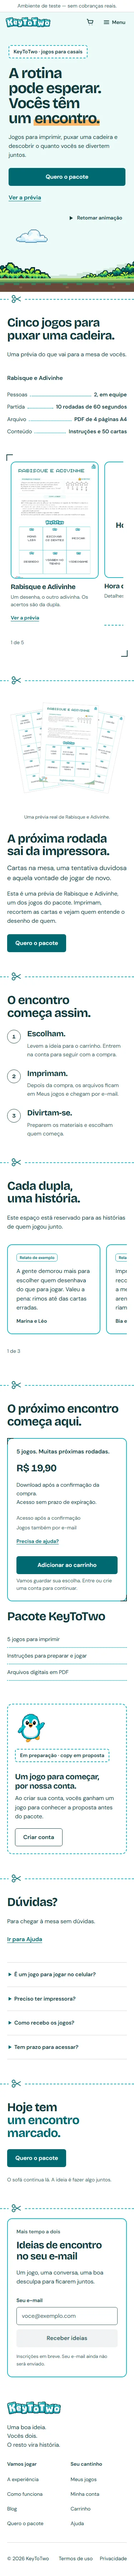
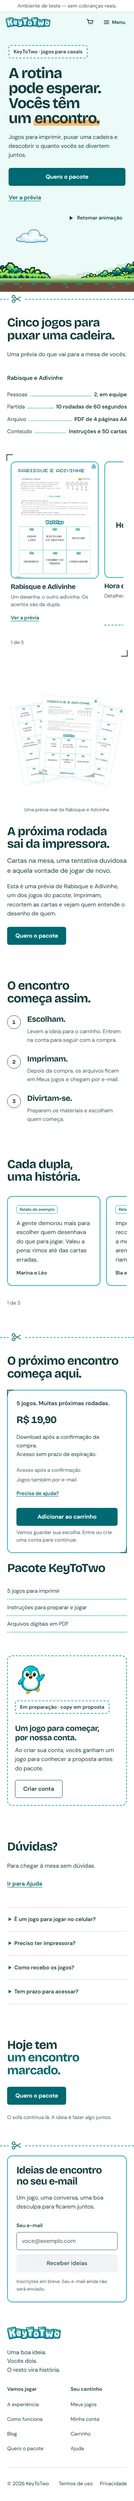
fix(design): ajustes da revisão da fatia 4
(a) Relatos sem a frase "Este espaço está reservado…", que desmentia os
exemplos no stage test e ficaria falsa em live. (b) Tesoura só em três cortes:
hero → folha dos jogos, antes da oferta e rodapé público; as demais seções
separam-se por espaço; regra registrada no DESIGN.md (The Three Cuts Rule) e
no sidecar. (c) Regra de catálogo nos dados: chamada, conteúdo e entrega da
oferta em src/content/products.ts; código, resumo, prévia aprovada e fatos de
cada carta em src/content/games.ts (só copy já existente); PackageGames,
OfferSection e GameCover servem a qualquer produto, sem J00{index} nem
index === 0. (d) Regressão de Meus jogos resolvida pela capa 16:10 da fatia 5:
card de 535 px em 1280 (antes 536) e último download em 2921 px no celular
(antes 2918).

Verificado: lint e typecheck exit 0; e2e public, d3, a2, d2, smoke e d1 contra
o build: 89 passed, 1 skipped por stage; home no 5180 com 3 linhas de recorte,
5 cartas (1 prévia real, 2 tipográficas, 2 em breve), 0 erros. Capturas da
home refeitas em design-review/fatias/4-secoes-home.

diff --git a/src/content/games.ts b/src/content/games.ts
@@ -1,21 +1,41 @@
 import { pending } from '../lib/pending'
 
 // P001 composition; only J001 has documented mechanics. Do not infer rules from names.
-export const games = [
-  {
-    id: 'rabisque-e-adivinhe', name: 'Rabisque e Adivinhe', confirmed: true,
-    description: 'Um desenha, o outro adivinha. Vocês alternam os papéis de Artista e Adivinhador e somam os acertos da dupla.',
-    pending: pending('prévia pública autorizada, testes de impressão e playtest.'),
-  },
-  { id: 'hora-dos-artistas', name: 'Hora dos Artistas', confirmed: true, description: 'Inclusão confirmada no pacote.', pending: pending('ficha, regras, materiais e prévia do jogo.') },
-  { id: 'boardgame', name: 'Boardgame', confirmed: true, description: 'Inclusão confirmada com este nome provisório.', pending: pending('nome final, ficha, regras, materiais e prévia do jogo.') },
-  { id: 'jogo-4', name: 'Jogo a definir', confirmed: false, description: 'Quarta vaga do pacote.', pending: pending('definição do jogo e de seus materiais.') },
-  { id: 'jogo-5', name: 'Jogo a definir', confirmed: false, description: 'Quinta vaga do pacote.', pending: pending('definição do jogo e de seus materiais.') },
-] as const
+// Regra de catálogo (DESIGN.md): tudo o que a carta mostra vem daqui (código, nome, resumo,
+// prévia aprovada, fatos). Sem prévia aprovada a capa é tipográfica; sem confirmação, "em breve".
+export type GamePreview = { src: string; alt: string; href: string; label: string }
+export type Game = {
+  id: string
+  code: string
+  name: string
+  confirmed: boolean
+  description: string
+  pending: string
+  summary: string
+  preview?: GamePreview
+  facts?: ReadonlyArray<{ label: string; value: string }>
+}
 
 // Verified J001 facts, never extrapolated to the other four games.
+const j001Facts = [{ label: 'Pessoas', value: '2, em equipe' }, { label: 'Partida', value: '10 rodadas de 60 segundos' }, { label: 'Arquivo', value: 'PDF de 4 páginas A4' }, { label: 'Conteúdo', value: 'Instruções e 50 cartas' }] as const
+
+export const games: readonly Game[] = [
+  {
+    id: 'rabisque-e-adivinhe', code: 'J001', name: 'Rabisque e Adivinhe', confirmed: true,
+    description: 'Um desenha, o outro adivinha. Vocês alternam os papéis de Artista e Adivinhador e somam os acertos da dupla.',
+    pending: pending('prévia pública autorizada, testes de impressão e playtest.'),
+    summary: 'Um desenha, o outro adivinha. Os acertos são da dupla.',
+    preview: { src: '/media/experience/j001-page-1-720.webp', alt: 'Prévia real de Rabisque e Adivinhe.', href: '/#experiencia', label: 'Ver a prévia' },
+    facts: j001Facts,
+  },
+  { id: 'hora-dos-artistas', code: 'J002', name: 'Hora dos Artistas', confirmed: true, description: 'Inclusão confirmada no pacote.', pending: pending('ficha, regras, materiais e prévia do jogo.'), summary: 'Detalhes e prévia em breve.' },
+  { id: 'boardgame', code: 'J003', name: 'Boardgame', confirmed: true, description: 'Inclusão confirmada com este nome provisório.', pending: pending('nome final, ficha, regras, materiais e prévia do jogo.'), summary: 'Detalhes e prévia em breve.' },
+  { id: 'jogo-4', code: 'J004', name: 'Jogo a definir', confirmed: false, description: 'Quarta vaga do pacote.', pending: pending('definição do jogo e de seus materiais.'), summary: 'Estamos preparando este jogo para o pacote.' },
+  { id: 'jogo-5', code: 'J005', name: 'Jogo a definir', confirmed: false, description: 'Quinta vaga do pacote.', pending: pending('definição do jogo e de seus materiais.'), summary: 'Estamos preparando este jogo para o pacote.' },
+]
+
 export const j001 = {
-  facts: [{ label: 'Pessoas', value: '2, em equipe' }, { label: 'Partida', value: '10 rodadas de 60 segundos' }, { label: 'Arquivo', value: 'PDF de 4 páginas A4' }, { label: 'Conteúdo', value: 'Instruções e 50 cartas' }],
+  facts: j001Facts,
   materials: 'Impressão, tesoura, uma folha grande para desenhar, uma caneta por pessoa e temporizador.',
   preparation: 'Imprimam e recortem as cartas. Coloquem-nas viradas para baixo e escolham quem começa desenhando.',
   rules: 'O Artista desenha a palavra ou frase da carta sem usar letras ou números. A dupla tenta acertar o máximo de cartas em 60 segundos e troca de papéis a cada rodada. Ao final das 10 rodadas, soma os pontos.',

diff --git a/src/components/sections/PackageGames.tsx b/src/components/sections/PackageGames.tsx
@@ -1,21 +1,23 @@
-import { games, j001 } from '../../content/games'
+import { products } from '../../content/products'
 import { GameCover } from '../account/GameCover'
 import { SnapCarousel } from '../ui/SnapCarousel'
-import '../../carousels.css'
 import { CutLine } from '../ui/CutLine'
+import '../../carousels.css'
 
-// Folha de cartas (DESIGN.md › Folha): os jogos do pacote como cartas para recortar. Os cinco
+// Folha de cartas (DESIGN.md › Folha): os jogos do produto como cartas para recortar. Os cinco
 // ficam visíveis no desktop; abaixo de 768 px a mesma trilha vira carrossel por snap (P2-2).
-// A ordem é editorial, não uma sequência: sem numeração (P2-1).
+// A ordem é editorial, não uma sequência: sem numeração (P2-1). Tudo vem dos dados do produto.
 export function PackageGames() {
+  const product = products[0]
+  const featured = product.games.find(game => game.facts)
   return <section className="page-section package-games" aria-labelledby="package-games-title"><CutLine /><div className="content-width">
     <div className="folha-topo">
       <div className="section-heading"><h2 id="package-games-title">Cinco jogos para puxar uma cadeira.</h2><p>Uma prévia do que vai para a mesa de vocês.</p></div>
-      <div className="folha-ficha"><p className="ficha-titulo">{games[0].name}</p><dl className="ficha">{j001.facts.map(fact => <div key={fact.label}><dt>{fact.label}</dt><dd>{fact.value}</dd></div>)}</dl></div>
+      {featured?.facts && <div className="folha-ficha"><p className="ficha-titulo">{featured.name}</p><dl className="ficha">{featured.facts.map(fact => <div key={fact.label}><dt>{fact.label}</dt><dd>{fact.value}</dd></div>)}</dl></div>}
     </div>
-    <SnapCarousel label="Jogos do pacote" className="games-carousel folha crop-marks">{games.map((game, index) => <figure className="package-game" key={game.id} aria-label={game.confirmed ? game.name : 'Jogo em preparação'}>
-      <GameCover code={`J00${index + 1}`} name={game.confirmed ? game.name : 'Em breve'} seal={game.confirmed ? 'No pacote' : undefined} soon={!game.confirmed} />
-      <figcaption className="package-game-copy">{game.confirmed && <h3>{game.name}</h3>}<p>{index === 0 ? 'Um desenha, o outro adivinha. Os acertos são da dupla.' : game.confirmed ? 'Detalhes e prévia em breve.' : 'Estamos preparando este jogo para o pacote.'}</p>{index === 0 && <a className="inline-link" href="/#experiencia">Ver a prévia</a>}</figcaption>
+    <SnapCarousel label="Jogos do pacote" className="games-carousel folha crop-marks">{product.games.map(game => <figure className="package-game" key={game.id} aria-label={game.confirmed ? game.name : 'Jogo em preparação'}>
+      <GameCover code={game.code} name={game.confirmed ? game.name : 'Em breve'} seal={game.confirmed ? 'No pacote' : undefined} soon={!game.confirmed} />
+      <figcaption className="package-game-copy">{game.confirmed && <h3>{game.name}</h3>}<p>{game.summary}</p>{game.preview && <a className="inline-link" href={game.preview.href}>{game.preview.label}</a>}</figcaption>
     </figure>)}</SnapCarousel>
   </div></section>
 }

diff --git a/src/components/sections/ExperienceSections.tsx b/src/components/sections/ExperienceSections.tsx
@@ -2,11 +2,10 @@ import { experience } from '../../content/experience'
 import { siteConfig } from '../../lib/seo'
 import { ProductPreview } from './ProductPreview'
 import { SnapCarousel } from '../ui/SnapCarousel'
-import { CutLine } from '../ui/CutLine'
 
 // Prévia real do J001 sobre o Papel (direção B): nada de fundo em Tinta nem arco de Marca-texto.
 export function ProductExperience() {
-  return <section className="page-section experience-section" aria-labelledby="experiencia"><CutLine /><div className="content-width experience-layout">
+  return <section className="page-section experience-section" aria-labelledby="experiencia"><div className="content-width experience-layout">
     <ProductPreview />
     <div className="experience-copy"><h2 id="experiencia" tabIndex={-1}>A próxima rodada sai da impressora.</h2><p className="lead">Cartas na mesa, uma tentativa duvidosa e aquela vontade de jogar de novo.</p><p>Esta é uma prévia de Rabisque e Adivinhe, um dos jogos do pacote. Imprimam, recortem as cartas e vejam quem entende o desenho de quem.</p><a className="button button-primary" href="/#comprar">Quero o pacote</a></div>
   </div></section>
@@ -17,8 +16,8 @@ export function Testimonials() {
   const social = experience.social
   const visible = siteConfig.stage === 'test' ? social.testimonials : social.testimonials.filter(item => !item.placeholder)
   if (!visible.length) return null
-  return <section className="page-section social-section" aria-labelledby="social-title"><CutLine /><div className="content-width">
-    <div className="section-heading"><h2 id="social-title">{social.heading}</h2><p>{social.description}</p></div>
+  return <section className="page-section social-section" aria-labelledby="social-title"><div className="content-width">
+    <div className="section-heading"><h2 id="social-title">{social.heading}</h2></div>
     <SnapCarousel label="Relatos dos casais" className="social-carousel">{visible.map(item => <figure key={item.id} className="social-card" data-placeholder={item.placeholder ? 'true' : undefined}>
       {item.placeholder && <span className="tag-solid">{social.placeholderLabel}</span>}
       <blockquote>{item.quote}</blockquote><figcaption>{item.author}</figcaption>

diff --git a/src/components/sections/OfferSection.tsx b/src/components/sections/OfferSection.tsx
@@ -1,5 +1,5 @@
 import { Link } from 'react-router'
-import { products, packageContents, type Product } from '../../content/products'
+import { products, type Product } from '../../content/products'
 import { experience } from '../../content/experience'
 import { siteConfig } from '../../lib/seo'
 import { useShop } from '../../lib/shop-context'
@@ -22,10 +22,10 @@ function ProductOffer({ product }: { product: Product }) {
   const { catalog } = useShop()
   const price = siteConfig.stage === 'preview' ? null : catalog.data?.products.find(item => item.code === product.code)?.price
   return <article className="offer-layout" aria-labelledby={`product-${product.code}`} data-product-code={product.code}>
-    <div className="offer-invitation"><h3 className="product-title" id={`product-${product.code}`}>{product.title}</h3><ul className="package-contents">{packageContents.map(item => <li key={item}>{item}</li>)}</ul></div>
-    <div className="offer-summary crop-marks"><h4>5 jogos. Muitas próximas rodadas.</h4>
+    <div className="offer-invitation"><h3 className="product-title" id={`product-${product.code}`}>{product.title}</h3><ul className="package-contents">{product.contents.map(item => <li key={item}>{item}</li>)}</ul></div>
+    <div className="offer-summary crop-marks"><h4>{product.tagline}</h4>
       <p className="offer-price" data-state={price ? undefined : 'pending'}>{price ? money(price.unit_amount, price.currency) : siteConfig.stage === 'preview' ? 'Preço em breve' : catalog.loading ? 'Consultando preço…' : 'Não conseguimos carregar o preço.'}</p>
-      <p className="offer-delivery">Download após a confirmação da compra.<br />Acesso sem prazo de expiração.</p>
+      <p className="offer-delivery">{product.delivery.map((line, index) => <span key={line}>{index > 0 && <br />}{line}</span>)}</p>
       <TrustLine />
       {siteConfig.showCartAccess ? <ProductPurchaseAction code={product.code} /> : <p className="offer-coming">Estamos preparando este encontro. Compra disponível em breve.</p>}
     </div>

diff --git a/src/components/account/GameCover.tsx b/src/components/account/GameCover.tsx
@@ -1,17 +1,14 @@
 import './game-cover.css'
+import { games } from '../../content/games'
 import { siteConfig } from '../../lib/seo'
 
-// Capa de jogo (DESIGN.md › Carta de jogo). Três faces: prévia real (só o J001, único jogo com
-// prévia aprovada), tipográfica (nome do jogo sobre a carta, padrão de qualquer jogo sem prévia)
-// e "em breve" (jogo ainda indefinido). Nunca arte do Kito nem capa fictícia (P0-2).
-const previews: Record<string, { src: string; alt: string }> = {
-  J001: { src: '/media/experience/j001-page-1-720.webp', alt: 'Prévia real de Rabisque e Adivinhe.' },
-}
-
+// Capa de jogo (DESIGN.md › Carta de jogo). Três faces, decididas pelos dados do jogo: prévia real
+// (só jogos com prévia aprovada em src/content/games.ts), tipográfica (nome sobre a carta, padrão de
+// qualquer jogo sem prévia) e "em breve" (jogo ainda indefinido). Nunca arte do Kito nem capa fictícia (P0-2).
 export function GameCover({ code, name, seal, soon = false }: { code: string; name: string; seal?: string; soon?: boolean }) {
   // The local stage seed exposes TESTE-J01…05 for these same five games.
   const coverCode = siteConfig.stage === 'test' ? code.replace(/^TESTE-J0([1-5])$/, 'J00$1') : code
-  const preview = previews[coverCode]
+  const preview = games.find(game => game.code === coverCode)?.preview
   if (preview) return <div className="game-cover game-cover-preview"><img src={preview.src} alt={preview.alt} width="509" height="720" loading="lazy" decoding="async" /></div>
   if (soon) return <div className="game-cover game-cover-soon" aria-hidden="true"><span className="game-cover-name">{name}</span></div>
   return <div className="game-cover game-cover-type" aria-hidden="true">{seal && <span className="tag-solid">{seal}</span>}<span className="game-cover-name">{name}</span></div>

diff --git a/src/content/products.ts b/src/content/products.ts
@@ -1,22 +1,26 @@
-import { games } from './games'
+import { games, type Game } from './games'
 import { offer } from './offer'
 
 export type Product = {
   code: string
   kind: 'bundle' | 'single'
   title: string
-  games: ReadonlyArray<{ id: string; name: string; confirmed: boolean }>
+  tagline: string
+  contents: readonly string[]
+  delivery: readonly string[]
+  games: readonly Game[]
   offer: typeof offer
 }
 
+export const packageContents = ['5 jogos para imprimir', 'Instruções para preparar e jogar', 'Arquivos digitais em PDF']
+
 // P2: the page consumes a product list. P001 is the only confirmed product.
-// I2b will supply the catalog and authenticated add-to-cart action.
+// Regra de catálogo: título, chamada, conteúdo e entrega vêm daqui; a oferta renderiza um card por produto.
 export const products: readonly Product[] = [
-  { code: offer.code, kind: 'bundle', title: 'Pacote KeyToTwo', games, offer },
+  { code: offer.code, kind: 'bundle', title: 'Pacote KeyToTwo', tagline: '5 jogos. Muitas próximas rodadas.', contents: packageContents, delivery: ['Download após a confirmação da compra.', 'Acesso sem prazo de expiração.'], games, offer },
 ]
 
 // Editorial display name; commercial approval remains tracked in offer.name.
 export function productName(code: string, fallback = '') {
   return products.find(product => product.code === code)?.title || (/PENDENTE|\bTESTE\b/i.test(fallback) || !fallback ? 'Jogo para imprimir' : fallback)
 }
-export const packageContents = ['5 jogos para imprimir', 'Instruções para preparar e jogar', 'Arquivos digitais em PDF']

diff --git a/src/components/sections/FromBlog.tsx b/src/components/sections/FromBlog.tsx
@@ -1,8 +1,7 @@
 import { Link } from 'react-router'
 import { formatBlogDate, type BlogPostSummary } from '../../lib/blog'
-import { CutLine } from '../ui/CutLine'
 
 export function FromBlog({ posts }: { posts: BlogPostSummary[] }) {
   if (!posts.length) return null
-  return <section className="page-section from-blog" aria-labelledby="from-blog-title"><CutLine /><div className="content-width"><div className="from-blog-heading"><h2 id="from-blog-title">Do blog</h2><Link className="inline-link" to="/blog">Ver todos os textos</Link></div><ul className="home-posts">{posts.map(post => <li key={post.slug}><article>{post.cover && <img src={post.cover} alt={post.coverAlt} width="960" height="640" loading="lazy" decoding="async" />}<time dateTime={post.date}>{formatBlogDate(post.date)}</time><h3><Link to={`/blog/${post.slug}`}>{post.title}</Link></h3><p>{post.description}</p></article></li>)}</ul></div></section>
+  return <section className="page-section from-blog" aria-labelledby="from-blog-title"><div className="content-width"><div className="from-blog-heading"><h2 id="from-blog-title">Do blog</h2><Link className="inline-link" to="/blog">Ver todos os textos</Link></div><ul className="home-posts">{posts.map(post => <li key={post.slug}><article>{post.cover && <img src={post.cover} alt={post.coverAlt} width="960" height="640" loading="lazy" decoding="async" />}<time dateTime={post.date}>{formatBlogDate(post.date)}</time><h3><Link to={`/blog/${post.slug}`}>{post.title}</Link></h3><p>{post.description}</p></article></li>)}</ul></div></section>
 }

diff --git a/src/components/sections/FaqSection.tsx b/src/components/sections/FaqSection.tsx
@@ -1,8 +1,7 @@
 import { faq } from '../../content/faq'
-import { CutLine } from '../ui/CutLine'
 
 export function FaqSection() {
-  return <section className="page-section faq-section" aria-labelledby="duvidas"><CutLine /><div className="content-width faq-layout">
+  return <section className="page-section faq-section" aria-labelledby="duvidas"><div className="content-width faq-layout">
     <div className="section-heading"><h2 id="duvidas" tabIndex={-1}>Dúvidas?</h2><p>Para chegar à mesa sem dúvidas.</p><a className="inline-link" href="/ajuda">Ir para Ajuda</a></div>
     <div className="faq-list">{faq.map(item => <details key={item.id} className="faq-item"><summary>{item.question}</summary><div className="faq-answer"><p>{item.answer}</p>{item.link && <a className="inline-link" href={item.link.href}>{item.link.label}</a>}</div></details>)}</div>
   </div></section>

diff --git a/src/components/sections/ClosingCta.tsx b/src/components/sections/ClosingCta.tsx
@@ -1,4 +1,3 @@
-import { CutLine } from '../ui/CutLine'
 export function ClosingCta() {
-  return <section className="page-section closing-section" aria-labelledby="closing-title"><CutLine /><div className="content-width"><h2 id="closing-title">Hoje tem<br /><span>um encontro marcado.</span></h2><a className="button button-primary" href="/#comprar">Quero o pacote</a><p className="closing-note">O sofá continua lá. A ideia é fazer algo juntos.</p></div></section>
+  return <section className="page-section closing-section" aria-labelledby="closing-title"><div className="content-width"><h2 id="closing-title">Hoje tem<br /><span>um encontro marcado.</span></h2><a className="button button-primary" href="/#comprar">Quero o pacote</a><p className="closing-note">O sofá continua lá. A ideia é fazer algo juntos.</p></div></section>
 }

diff --git a/src/components/sections/HowItWorks.tsx b/src/components/sections/HowItWorks.tsx
@@ -1,9 +1,8 @@
 import { experience } from '../../content/experience'
-import { CutLine } from '../ui/CutLine'
 
 // Os números são uma sequência real (DESIGN.md › Etapas); por isso ficam.
 export function HowItWorks() {
-  return <section className="page-section how-section" aria-labelledby="como-funciona"><CutLine /><div className="content-width">
+  return <section className="page-section how-section" aria-labelledby="como-funciona"><div className="content-width">
     <div className="section-heading"><h2 id="como-funciona" tabIndex={-1}>O encontro começa assim.</h2></div>
     <ol className="steps-list">{experience.steps.map((step, index) => <li key={step.title}><span className="step-number" aria-hidden="true">{index + 1}</span><h3>{step.title}</h3><p>{step.text}</p></li>)}</ol>
   </div></section>

diff --git a/src/content/experience.ts b/src/content/experience.ts
@@ -19,7 +19,6 @@ export const experience = {
   // Sem nota, número de avaliações ou estrelas. O responsável substitui pelos relatos autorizados.
   social: {
     heading: 'Cada dupla, uma história.',
-    description: 'Este espaço está reservado para as histórias de quem jogou junto.',
     placeholderLabel: 'Relato de exemplo',
     testimonials: [
       { id: 'exemplo-1', placeholder: true, quote: 'A gente demorou mais para escolher quem desenhava do que para jogar. Valeu a pena: rimos até das cartas erradas.', author: 'Marina e Léo' },

diff --git a/DESIGN.md b/DESIGN.md
@@ -236,7 +236,7 @@ Números (preço, contagem, data) usam `font-variant-numeric: tabular-nums`. O p
 
 ## Layout
 
-A página é uma pilha de folhas. Cada seção é uma folha de Papel com `padding-block: {spacing.section}`; entre duas folhas passa a **linha de recorte** (2 px tracejada Turquesa J001, largura total, com a tesoura encostada na margem esquerda do contêiner). A tesoura aparece só entre seções, nunca dentro delas.
+A página é uma pilha de folhas. Cada seção é uma folha de Papel com `padding-block: {spacing.section}`. A **linha de recorte** (2 px tracejada Turquesa J001, largura total, com a tesoura encostada na margem esquerda do contêiner) corta a página em **três lugares**: depois da hero (entra a folha dos jogos), antes da oferta (entra a folha de compra) e antes do rodapé. Seções do mesmo assunto (prévia, como funciona, relatos; dúvidas, blog, fechamento) separam-se só por espaço. A tesoura nunca aparece dentro de uma seção.
 
 Contêiner de conteúdo: `min(1140px, 100% − 80px)` no desktop, `100% − 48px` até 1050 px, `100% − 40px` até 767 px. O cabeçalho usa `min(1280px, 100% − 64px)`. Hero e cena ocupam a largura total; o chão vai até as bordas da janela.
 
@@ -247,6 +247,9 @@ Ritmo vertical em múltiplos de 8: `{spacing.sm}` entre rótulo e campo, `{spaci
 No celular tudo empilha: título, apoio, ação; na oferta, **o preço e o botão vêm antes da prévia**. A barra fixa de compra (`.mobile-purchase-bar`) só existe abaixo de 768 px e se recolhe quando hero, oferta ou rodapé estão à vista.
 
 Pontos de quebra: 360, 480, 600, 767, 1050 e 1120 (70rem) px, já usados pelo código. Sem rolagem horizontal de 320 a 1440 px com texto a 200 %.
+
+### Named Rules
+**The Three Cuts Rule.** A tesoura corta a página em três lugares: depois da hero (folha dos jogos), antes da oferta (folha de compra) e antes do rodapé público. Seções do mesmo assunto separam-se só por espaço; nunca há tesoura dentro de uma seção nem em páginas privadas.
 
 ## Elevation & Depth
 
@@ -293,7 +296,7 @@ A cena do Kito é a exceção pixel: bordas em degrau, `image-rendering: pixelat
 - **Aviso** (`.notice`): Papel, borda 1,5 px Tinta suave, `{rounded.md}`, padding 16–20 px, sem barra lateral. Variante de demonstração usa a mesma caixa com texto "Demonstração".
 
 ### Linha de recorte (`.cut-line`)
-Elemento decorativo (`aria-hidden`) de 40 px de altura entre duas folhas: linha tracejada 2 px Turquesa J001 de borda a borda da janela e a tesoura (SVG de 28 × 24, traço 2 px Turquesa profundo, dois círculos e duas lâminas) sobre um retângulo de Papel na margem esquerda do contêiner. Usa-se entre a hero e a primeira folha e entre folhas; não dentro de uma folha, não em páginas privadas.
+Elemento decorativo (`aria-hidden`) de 40 px de altura entre duas folhas: linha tracejada 2 px Turquesa J001 de borda a borda da janela e a tesoura (SVG de 28 × 24, traço 2 px Turquesa profundo, dois círculos e duas lâminas) sobre um retângulo de Papel na margem esquerda do contêiner. Usa-se em três cortes: hero → folha dos jogos, antes da oferta e antes do rodapé (só no rodapé público). Não dentro de uma folha, não entre seções do mesmo assunto, não em páginas privadas.
 
 ### Marcas de corte (`.crop-marks`)
 Dois L de 18 px em Tinta 2 px nos cantos superior esquerdo e inferior direito do contêiner marcado. Só na folha de cartas e no card de oferta.
@@ -343,7 +346,7 @@ Lista de definição em Body 15–16 px: `dt` à esquerda, `dd` em 600 à direit
 - Momentos raros (celebração) podem passar de 300 ms; tudo o mais fica abaixo.
 
 ### Named Rules
-**The Catalog Rule.** Nenhum componente desenha "5" ou "P001". Cartas, fichas, lista de conteúdo, preço e botão são preenchidos por dados de produto; a folha de cartas aceita de 1 a N cartas (5 por linha no desktop, quebrando em linhas novas), a capa tipográfica é o padrão de qualquer jogo sem prévia aprovada, e a oferta renderiza um card por produto do catálogo. Um freebie ou um segundo pacote entra sem CSS novo.
+**The Catalog Rule.** Nenhum componente desenha "5" ou "P001". Título, chamada, conteúdo e entrega da oferta vêm de `src/content/products.ts`; código, nome, resumo, prévia aprovada e fatos de cada carta vêm de `src/content/games.ts`. A folha de cartas aceita de 1 a N cartas (5 por linha no desktop, quebrando em linhas novas), a capa tipográfica é o padrão de qualquer jogo sem prévia aprovada, e a oferta renderiza um card por produto do catálogo. Um freebie ou um segundo pacote entra sem CSS novo.
 
 **The Kito Acts Rule.** Se o Kito não está caminhando, acolhendo, celebrando ou convidando, ele não está na tela.
 
